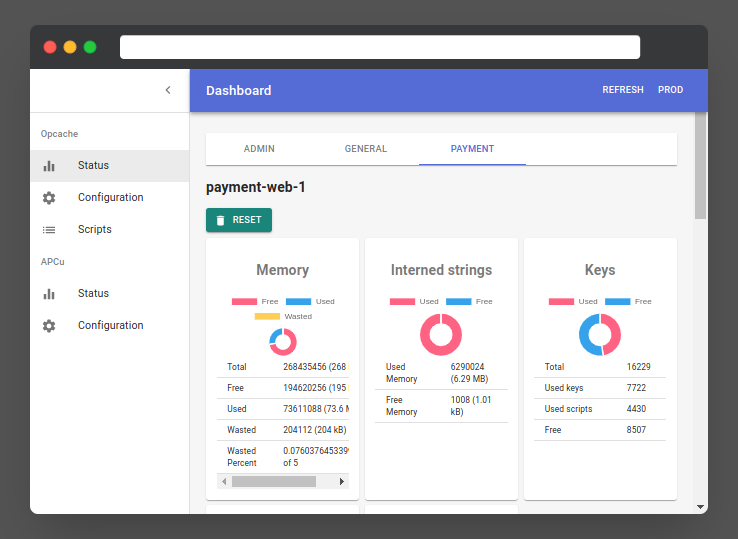
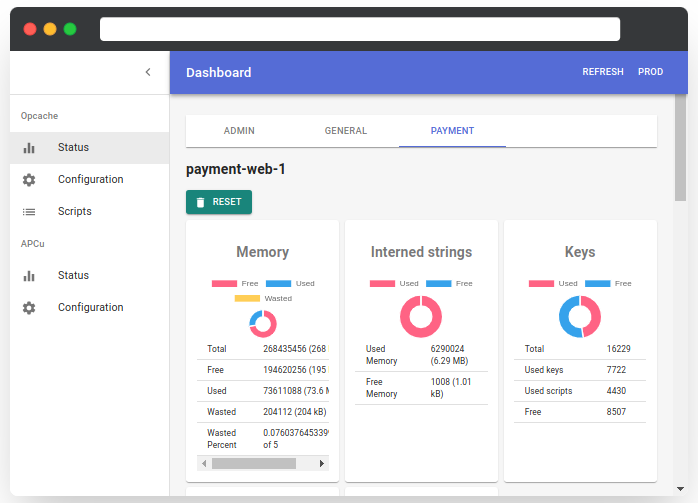
screen

diff --git a/README.md b/README.md
@@ -2,6 +2,8 @@
 
 Gathers opcache stat from different PHP servers into one dashboard and tracks opcache status metrics to statsD and prometheus
 
+![Opcache dashboard](https://github.com/GoMetric/opcache-dashboard/blob/master/docs/screenshot.png?raw=true)
+
 # Installation
 
 ## Installation from sources
